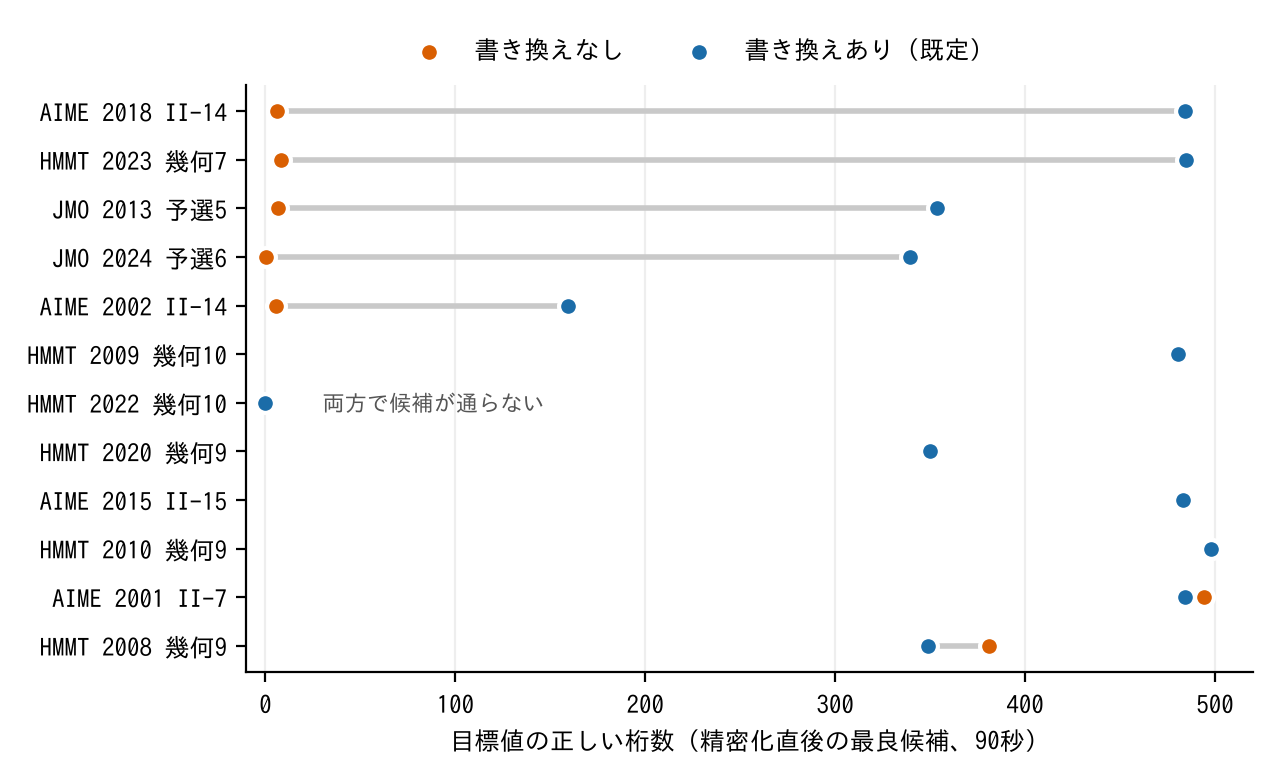
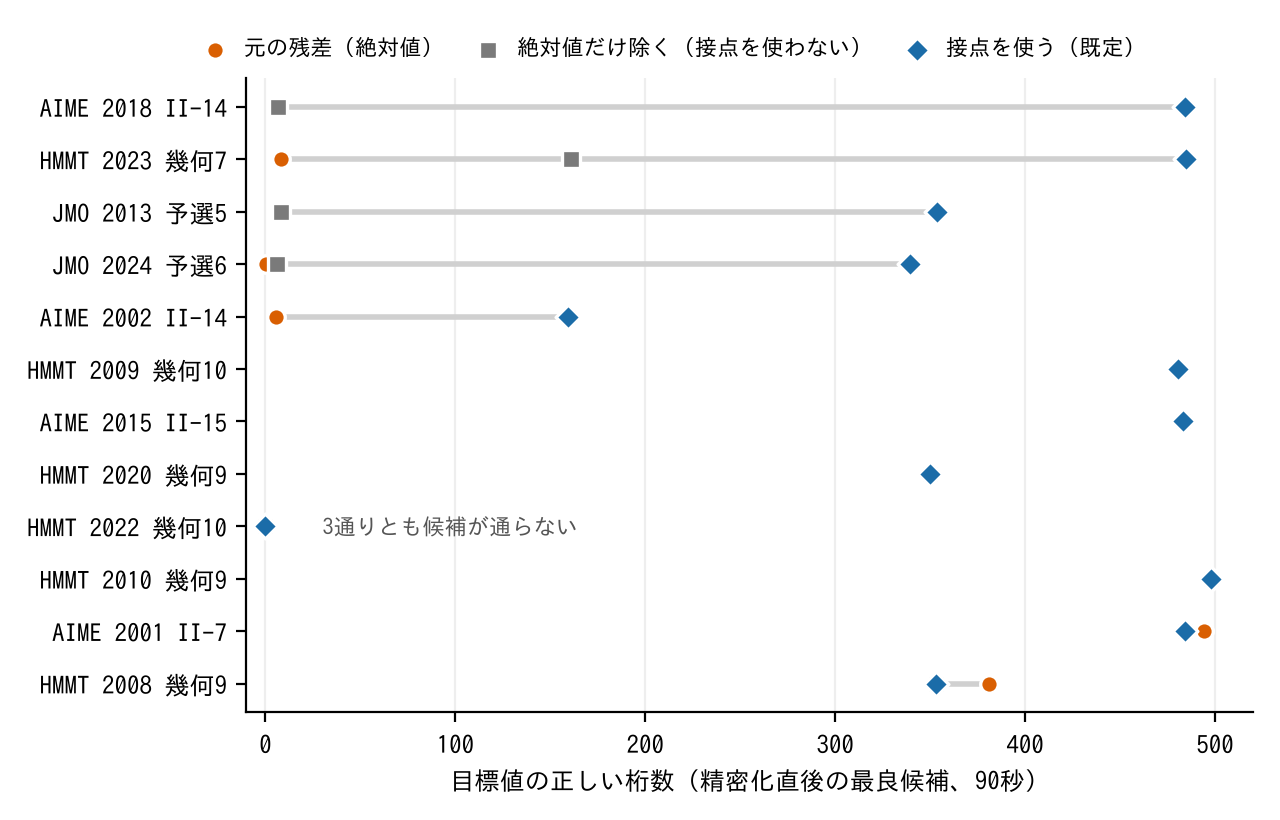
v13: integrate S3 (three-condition tangency) and S4 (singularity at true figure); fig2 with T0/T1/T2
Claude-Session: https://claude.ai/code/session_01FBGkqymo2HRKc1KbneEmbc

diff --git a/jssa/draft/figures/make_fig_tangency.py b/jssa/draft/figures/make_fig_tangency.py
@@ -1,12 +1,11 @@
-# 図2：接する条件を含む12問、同じ候補から精密化した目標値の正しい桁数（S1、事前登録7）
-import csv, matplotlib
+# 図2：接する条件を含む12問、同じ候補から精密化した目標値の正しい桁数（事前登録10、S3）
+import csv, re, matplotlib
 matplotlib.use('Agg')
 import matplotlib.pyplot as plt
 from matplotlib import font_manager
 font_manager.fontManager.addfont('/usr/share/fonts/opentype/ipafont-gothic/ipag.ttf')
 plt.rcParams.update({'font.family':'IPAGothic','font.size':9,'figure.facecolor':'white','axes.facecolor':'white'})
-rows=list(csv.DictReader(open('../../difficulty/mechanism-1024/stage/S1/per-problem.csv')))
-import re
+rows=list(csv.DictReader(open('../../difficulty/mechanism-1024/stage/S3/run/per-problem.csv')))
 def name(c):
     m=re.match(r'(?i)aime-(\d+)-(I+|\d)-(\d+)',c)
     if m:
@@ -16,19 +15,20 @@ def name(c):
     m=re.match(r'JMO-(\d+)-PRE-(\d+)',c)
     return f'JMO {m.group(1)} 予選{int(m.group(2))}'
 for r in rows:
-    r['a']=max(0,float(r['BASE_best_error_digits'])); r['n']=max(0,float(r['NO_RESIDUAL_REWRITE_best_error_digits']))
-rows.sort(key=lambda r:(r['a']-r['n']))
-fig,ax=plt.subplots(figsize=(6.4,3.9))
-y=range(len(rows))
+    for k in 'T0','T1','T2': r[k]=max(0,float(r[k+'_best_error_digits']))
+rows.sort(key=lambda r:(r['T2']-r['T0'],r['T2']))
+fig,ax=plt.subplots(figsize=(6.4,4.1))
+y=list(range(len(rows)))
 for i,r in enumerate(rows):
-    ax.plot([r['n'],r['a']],[i,i],color='#c9c9c9',lw=2,zorder=1)
-ax.scatter([r['n'] for r in rows],y,s=46,color='#d95f02',label='書き換えなし',zorder=2,edgecolor='white',linewidth=1.5)
-ax.scatter([r['a'] for r in rows],y,s=46,color='#1b6ca8',label='書き換えあり（既定）',zorder=3,edgecolor='white',linewidth=1.5)
-ax.set_yticks(list(y)); ax.set_yticklabels([name(r['case_id']) for r in rows])
+    ax.plot([min(r['T0'],r['T1'],r['T2']),max(r['T0'],r['T1'],r['T2'])],[i,i],color='#d0d0d0',lw=2,zorder=1)
+sty=[('T0','元の残差（絶対値）','#d95f02','o'),('T1','絶対値だけ除く（接点を使わない）','#7a7a7a','s'),('T2','接点を使う（既定）','#1b6ca8','D')]
+for k,lab,c,m in sty:
+    ax.scatter([r[k] for r in rows],y,s=40,color=c,marker=m,label=lab,zorder=3 if k=='T2' else 2,edgecolor='white',linewidth=1.2)
+ax.set_yticks(y); ax.set_yticklabels([name(r['case_id']) for r in rows])
 ax.set_xlabel('目標値の正しい桁数（精密化直後の最良候補、90秒）'); ax.set_xlim(-10,520)
 for s in ['top','right']: ax.spines[s].set_visible(False)
 ax.grid(axis='x',color='#eeeeee'); ax.set_axisbelow(True)
-ax.legend(loc='lower center',bbox_to_anchor=(0.45,1.0),ncol=2,frameon=False)
+ax.legend(loc='lower center',bbox_to_anchor=(0.42,1.0),ncol=3,frameon=False,fontsize=8,handletextpad=0.3,columnspacing=1.0)
 i=[k for k,r in enumerate(rows) if 'HMMT-2022' in r['case_id']][0]
-ax.annotate('両方で候補が通らない',(0,i),xytext=(30,i),va='center',fontsize=8,color='#555')
+ax.annotate('3通りとも候補が通らない',(0,i),xytext=(30,i),va='center',fontsize=8,color='#555')
 fig.tight_layout(); fig.savefig('fig2_tangency_digits.png',dpi=200)
